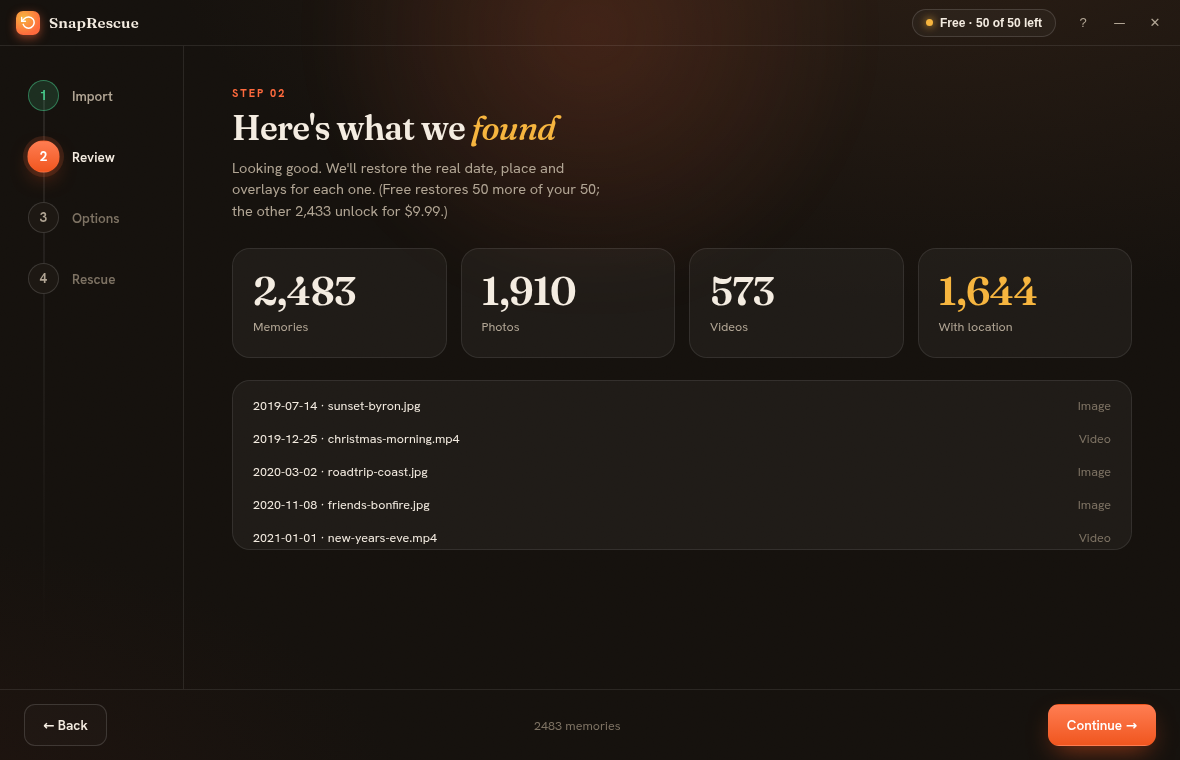
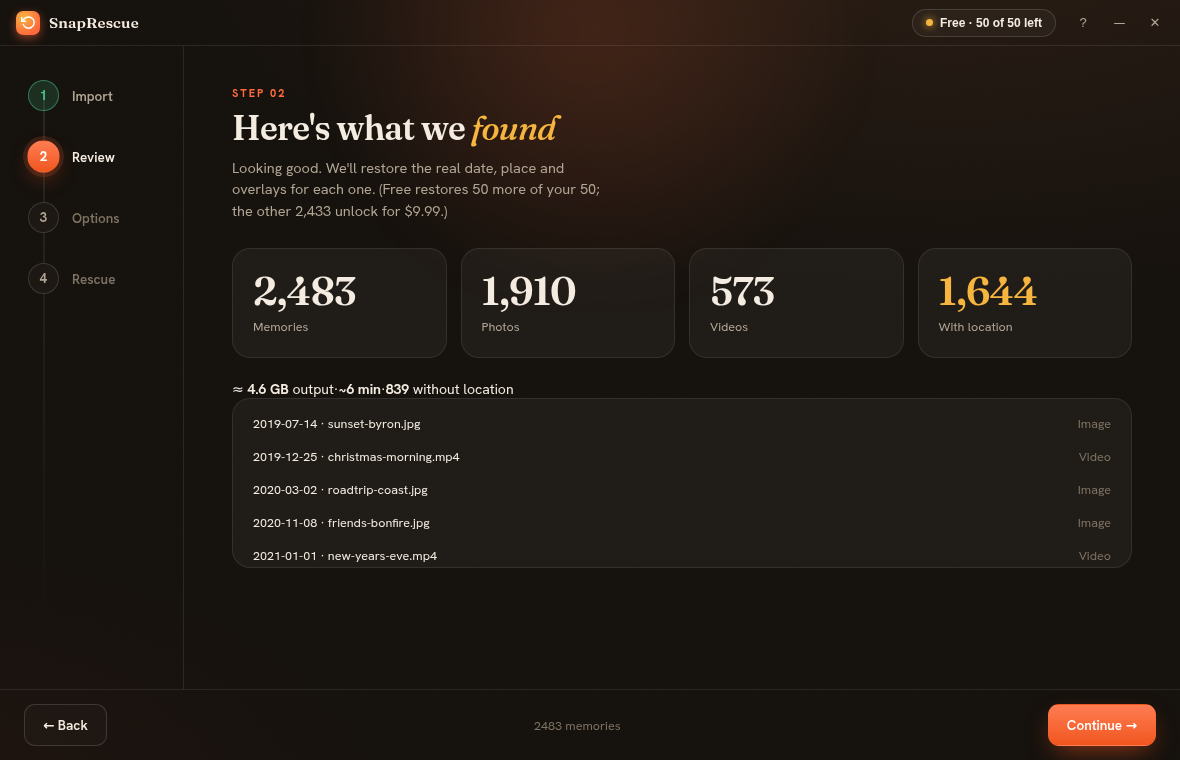
Site: scary-red countdown, SmartScreen mockup in download modal, richer app shot
- Countdown numbers (bar + big cells + deadline stamp) now danger-red with a
  subtle pulse.
- Download modal now shows a visual mockup of the blue 'Windows protected your
  PC' dialog with Run anyway highlighted, so users recognize it.
- Updated hero app screenshot to the v1.3.0 Review step (now shows estimated
  size, time, and without-location count).
- Modal scrolls on short screens.

Claude-Session: https://claude.ai/code/session_01Beep8FXwoVvHETjQn6mvZr

Changed region(s): [[0.2136, 0.4842, 0.4271, 0.7566], [0.9153, 0.5145, 0.9458, 0.7566]]

diff --git a/styles.css b/styles.css
@@ -9,6 +9,8 @@
   --ink-faint: #9a8c79;
   --sunset: #e8623a;
   --sunset-deep: #c8431f;
+  --danger: #d92d20;        /* countdown / deadline red */
+  --danger-bright: #ff5a52; /* red on dark backgrounds */
   --gold: #f3b443;
   --teal: #2f6f6a;
   --line: #e0d2bb;
@@ -334,7 +336,7 @@ footer { padding: 56px 0 40px; border-top: 1px solid var(--line); margin-top: 40
   border-bottom: 1px solid rgba(255,255,255,.08);
 }
 .cd-bar .cd-dot { width: 6px; height: 6px; border-radius: 50%; background: var(--sunset); animation: pulse 1.8s infinite; flex-shrink: 0; }
-.cd-bar .cd-nums { font-family: "Fraunces", serif; font-weight: 600; color: var(--gold); white-space: nowrap; }
+.cd-bar .cd-nums { font-family: "Fraunces", serif; font-weight: 600; color: var(--danger-bright); white-space: nowrap; }
 .cd-bar a { color: var(--paper); font-weight: 700; white-space: nowrap; border-bottom: 1.5px solid var(--gold); }
 .cd-bar a:hover { color: var(--gold); }
 body.has-cd-bar nav { top: 40px; }
@@ -354,7 +356,9 @@ body.has-cd-bar nav { top: 40px; }
 /* ── Big countdown (deadline page) ─────────────────────────────── */
 .cd-big { display: flex; gap: 14px; justify-content: center; flex-wrap: wrap; margin: 32px 0 8px; }
 .cd-cell { background: var(--card); border: 1px solid var(--line); border-radius: 16px; padding: 18px 10px; min-width: 104px; box-shadow: var(--shadow); }
-.cd-cell .n { font-family: "Fraunces", serif; font-size: clamp(38px, 7vw, 52px); font-weight: 600; color: var(--sunset); line-height: 1; letter-spacing: -.02em; }
+.cd-cell { border-color: color-mix(in srgb, var(--danger) 35%, var(--line)); }
+.cd-cell .n { font-family: "Fraunces", serif; font-size: clamp(38px, 7vw, 52px); font-weight: 600; color: var(--danger); line-height: 1; letter-spacing: -.02em; animation: dangerPulse 2s ease-in-out infinite; }
+@keyframes dangerPulse { 0%,100% { opacity: 1; } 50% { opacity: .62; } }
 .cd-cell .l { font-size: 12px; text-transform: uppercase; letter-spacing: .12em; color: var(--ink-faint); margin-top: 10px; }
 @media (max-width: 600px) { .cd-cell { min-width: 70px; padding: 14px 6px; } }
 
@@ -362,7 +366,7 @@ body.has-cd-bar nav { top: 40px; }
 .dl-hero { text-align: center; padding: 64px 0 20px; }
 .dl-hero h1 { font-size: clamp(34px, 6vw, 60px); margin-bottom: 18px; }
 .dl-hero .lead { font-size: clamp(18px, 2.2vw, 21px); color: var(--ink-soft); max-width: 38em; margin: 0 auto 6px; }
-.dl-hero .deadline-stamp { font-family: "Fraunces", serif; font-weight: 600; color: var(--sunset-deep); font-size: 18px; margin-top: 14px; }
+.dl-hero .deadline-stamp { font-family: "Fraunces", serif; font-weight: 600; color: var(--danger); font-size: 18px; margin-top: 14px; }
 
 /* ── Timeline ──────────────────────────────────────────────────── */
 .timeline { max-width: 760px; margin: 0 auto; }
@@ -418,9 +422,9 @@ body.has-cd-bar nav { top: 40px; }
 .page-head { padding-top: 56px; }
 
 /* ── Download reassurance modal ────────────────────────────────── */
-.modal-overlay { position: fixed; inset: 0; z-index: 200; display: none; align-items: center; justify-content: center; padding: 24px; background: rgba(33,26,19,.55); backdrop-filter: blur(4px); }
+.modal-overlay { position: fixed; inset: 0; z-index: 200; display: none; align-items: center; justify-content: center; padding: 24px; background: rgba(33,26,19,.55); backdrop-filter: blur(4px); overflow-y: auto; }
 .modal-overlay.open { display: flex; }
-.modal { background: var(--card); border: 1px solid var(--line); border-radius: 22px; box-shadow: var(--shadow); max-width: 460px; width: 100%; padding: 34px 32px 28px; position: relative; text-align: center; }
+.modal { background: var(--card); border: 1px solid var(--line); border-radius: 22px; box-shadow: var(--shadow); max-width: 460px; width: 100%; max-height: calc(100vh - 48px); overflow-y: auto; padding: 34px 32px 28px; position: relative; text-align: center; }
 .modal h3 { font-size: 26px; margin-bottom: 12px; }
 .modal p { color: var(--ink-soft); font-size: 16px; margin-bottom: 16px; }
 .modal .modal-steps { background: var(--paper-2); border: 1px solid var(--line); border-radius: 12px; padding: 14px 18px; font-size: 15.5px; color: var(--ink); margin-bottom: 20px; display: flex; align-items: center; gap: 10px; justify-content: center; }
@@ -437,3 +441,15 @@ body.has-cd-bar nav { top: 40px; }
 .app-frame img { width: 100%; display: block; }
 .app-frame::after { content: ""; position: absolute; inset: 0; border-radius: 16px; box-shadow: inset 0 0 0 1px rgba(255,255,255,.04); pointer-events: none; }
 .showcase-cap { text-align: center; color: var(--ink-faint); font-size: 14px; margin-top: 18px; }
+
+/* ── SmartScreen mockup inside the download modal ──────────────── */
+.ss-mock { position: relative; background: #1573c4; color: #fff; border-radius: 8px; padding: 16px 16px 14px; text-align: left; margin: 0 0 20px; box-shadow: 0 10px 22px rgba(0,0,0,.18); }
+.ss-mock .ss-x { position: absolute; top: 9px; right: 10px; width: 22px; height: 20px; background: #fff; color: #444; border-radius: 2px; display: grid; place-items: center; font-size: 13px; }
+.ss-mock .ss-title { font-family: "Hanken Grotesk", sans-serif; font-size: 17px; font-weight: 600; margin: 2px 0 8px; }
+.ss-mock .ss-body { font-size: 12px; line-height: 1.5; color: #e7eefb; margin-bottom: 4px; max-width: 90%; }
+.ss-mock .ss-more { font-size: 12px; color: #fff; text-decoration: underline; }
+.ss-mock .ss-btns { display: flex; gap: 8px; justify-content: flex-end; margin-top: 18px; }
+.ss-mock .ss-run, .ss-mock .ss-dont { font-size: 12px; padding: 7px 14px; border-radius: 2px; background: #e9e9e9; color: #222; font-weight: 600; }
+.ss-mock .ss-run { background: #fff; outline: 2px solid var(--gold); box-shadow: 0 0 0 3px rgba(243,180,67,.45); }
+.ss-cap { font-size: 12px; color: var(--ink-faint); margin: -8px 0 16px; }
+.ss-cap b { color: var(--ink-soft); }

diff --git a/index.html b/index.html
@@ -320,6 +320,14 @@
     <h3>Your download is starting</h3>
     <p>SnapRescue is a new app, so Windows may show a blue <b>“Windows protected your PC”</b> notice. That is normal for any new app, and SnapRescue is completely safe and runs entirely on your computer.</p>
     <div class="modal-steps"><span class="shield">🛡️</span> <span>To open it: click <b>More info</b>, then <b>Run anyway</b>.</span></div>
+    <div class="ss-mock" aria-hidden="true">
+      <span class="ss-x">✕</span>
+      <div class="ss-title">Windows protected your PC</div>
+      <div class="ss-body">Microsoft Defender SmartScreen prevented an unrecognized app from starting. Running this app might put your PC at risk.</div>
+      <span class="ss-more">More info</span>
+      <div class="ss-btns"><span class="ss-run">Run anyway</span><span class="ss-dont">Don't run</span></div>
+    </div>
+    <p class="ss-cap">This is the exact box you'll see. Click <b>More info</b> to reveal <b>Run anyway</b>.</p>
     <a href="#" class="btn btn-primary" id="dl-go">⬇ Download for Windows</a>
     <p class="modal-fine">Nothing is uploaded · No account · <a href="#faq" id="dl-why">Why does Windows warn me?</a></p>
   </div>